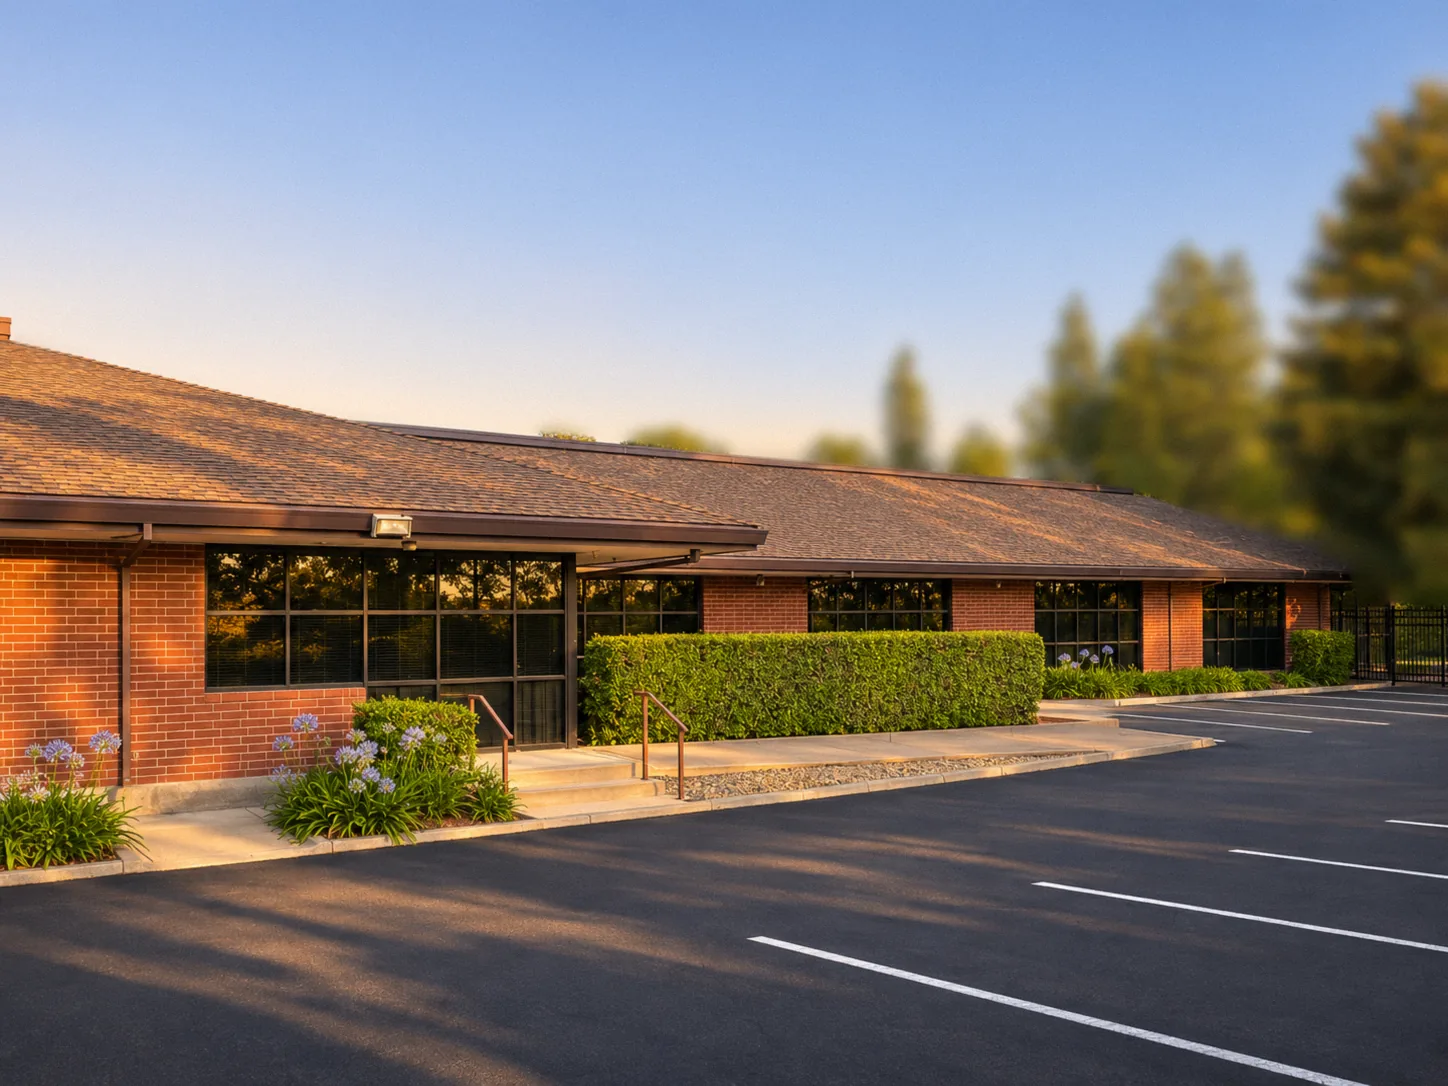
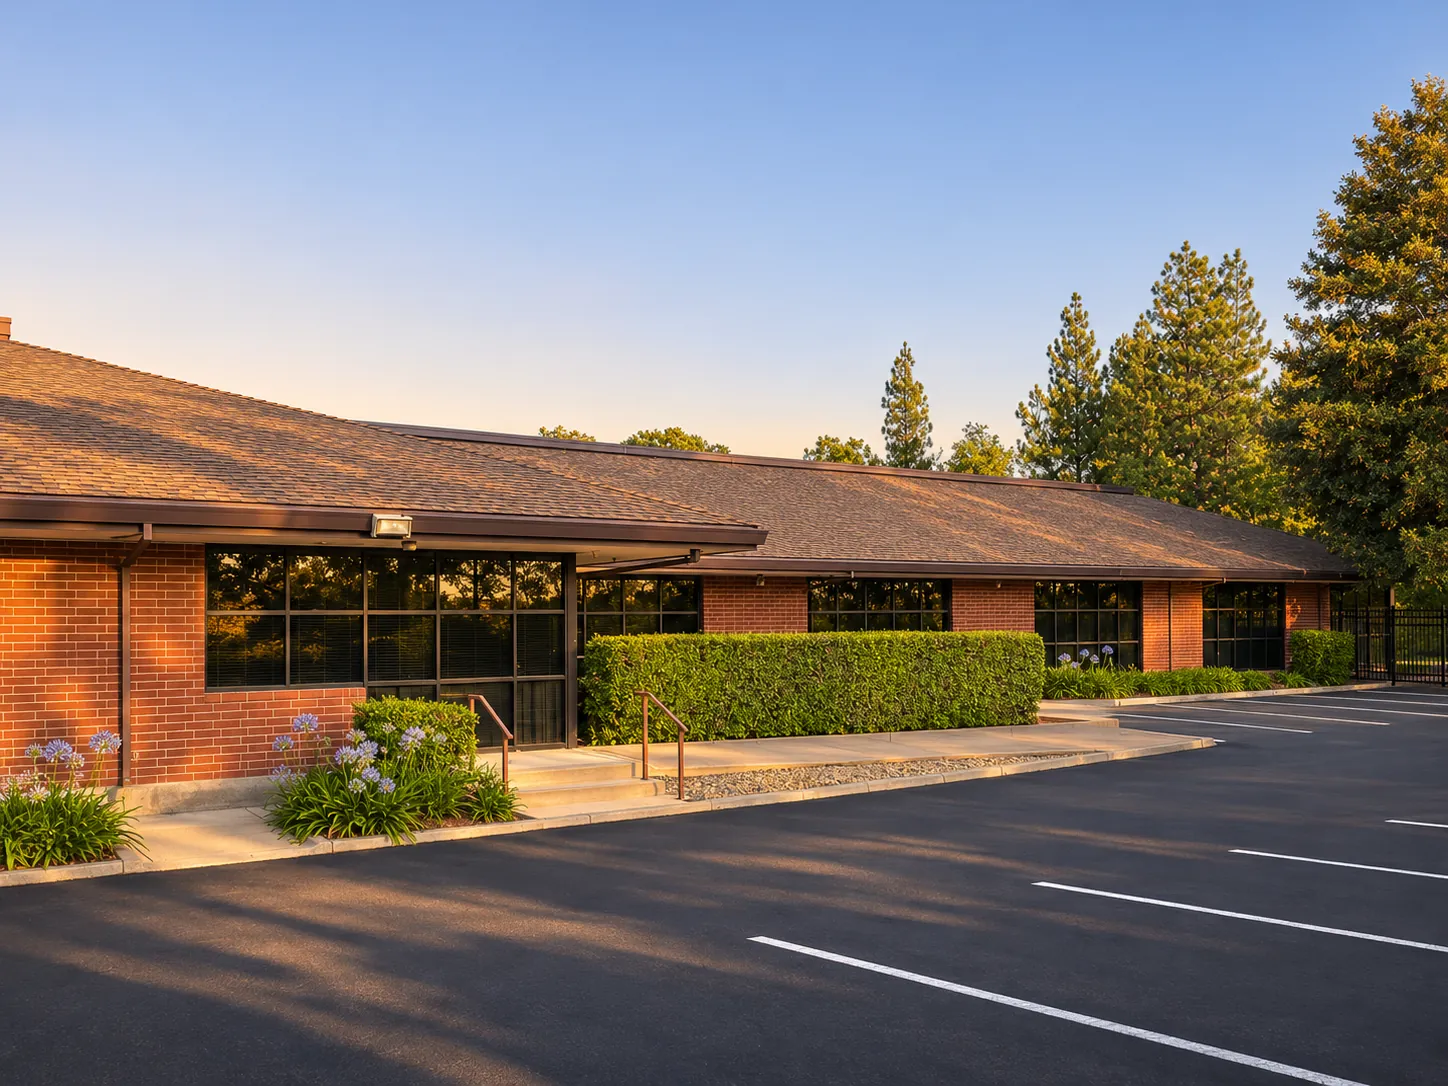
Publish site

Changed region(s): [[0.4351, 0.0608, 1.0, 0.547], [0.3729, 0.395, 0.404, 0.4254]]

diff --git a/site.js b/site.js
@@ -3,6 +3,20 @@ const $$ = (s) => [...document.querySelectorAll(s)];
 const body = document.body, plan = $('#building'), planStage = $('#plan-stage'), rig = $('#rig'), glow = $('#glow'), sheet = $('#sheet'), root = document.documentElement;
 const still = matchMedia('(prefers-reduced-motion:reduce)').matches;
 
+// --- Цели счётчиков, одинаковые во всех трёх: звонок, WhatsApp, заявка. Сами счётчики подключает сборка (site/counters.html).
+// Личных данных не передаём: только название цели. Поля заявки закрыты от записи Вебвизора
+const GOALS = { call: ['Contact', 'call'], whatsapp: ['Contact', 'whatsapp'], lead: ['Lead', 'generate_lead'] };   // Метрика: Meta, GA4
+const goal = (name) => {
+  const [meta, ga] = GOALS[name];
+  if (window.ym) ym(+'', 'reachGoal', name);
+  if (window.fbq) fbq('track', meta, { content_name: name });
+  if (window.gtag) gtag('event', ga, { method: name });
+};
+document.addEventListener('click', (e) => {
+  const a = e.target.closest('a[href^="tel:"], a[href*="wa.me/"]');
+  if (a) goal(a.href.startsWith('tel:') ? 'call' : 'whatsapp');
+});
+$$('#lead input').forEach((i) => i.classList.add('ym-disable-keys'));
 // --- Язык: русский текст в разметке, английский в data-en ------------------------------------
 const TEXT = {
   ru: { position: (n, total) => `Комната ${n} из ${total}`,
@@ -292,6 +306,7 @@ lead.addEventListener('submit', (e) => {
     leadPhone.focus();
     return;
   }
+  goal('lead');   // цель считаем уже сейчас, хотя отправки ещё нет
   // ponytail: отправки ещё нет, почта не выбрана (PROJECT_STATE.md). Поэтому заявка не считается принятой: человек видит, что надо позвонить
   leadOff.hidden = false;
   leadOff.scrollIntoView({ block: 'nearest' });

diff --git a/index.html b/index.html
@@ -16,7 +16,7 @@
 <link rel="preload" href="site.js" as="script">
 <link rel="stylesheet" href="styles.css">
 <style>/* Первый экран как у Lucid (выбор V 04.11 из трёх вариантов), содержание по схеме лендингов ConvertMonster (research/дизайн/первый-экран-как-делают/).
-   Фото фасада на весь экран, дальний план размыт (tools/depth.py), затемнение только слева под словами и внизу под формой, плашек нет.
+   Фото фасада на весь экран, затемнение только слева под словами и внизу под формой, плашек нет.
    Текст белый с мягкой тенью у букв, чтобы читался с одного взгляда (V 04.11: «текст сливается с изображением»). Шапка: название, что здесь и адрес.
    Заголовок с ценой, строка «кому», три выгоды (жирный заголовок и строка пояснения), повод и форма строкой внизу, мелкая строка под ней.
    Картинка сгенерирована Codex по снимкам cl-10 и cl-06 (content/facts.md), низ уходит в винное поле, стыка с макетом нет */
